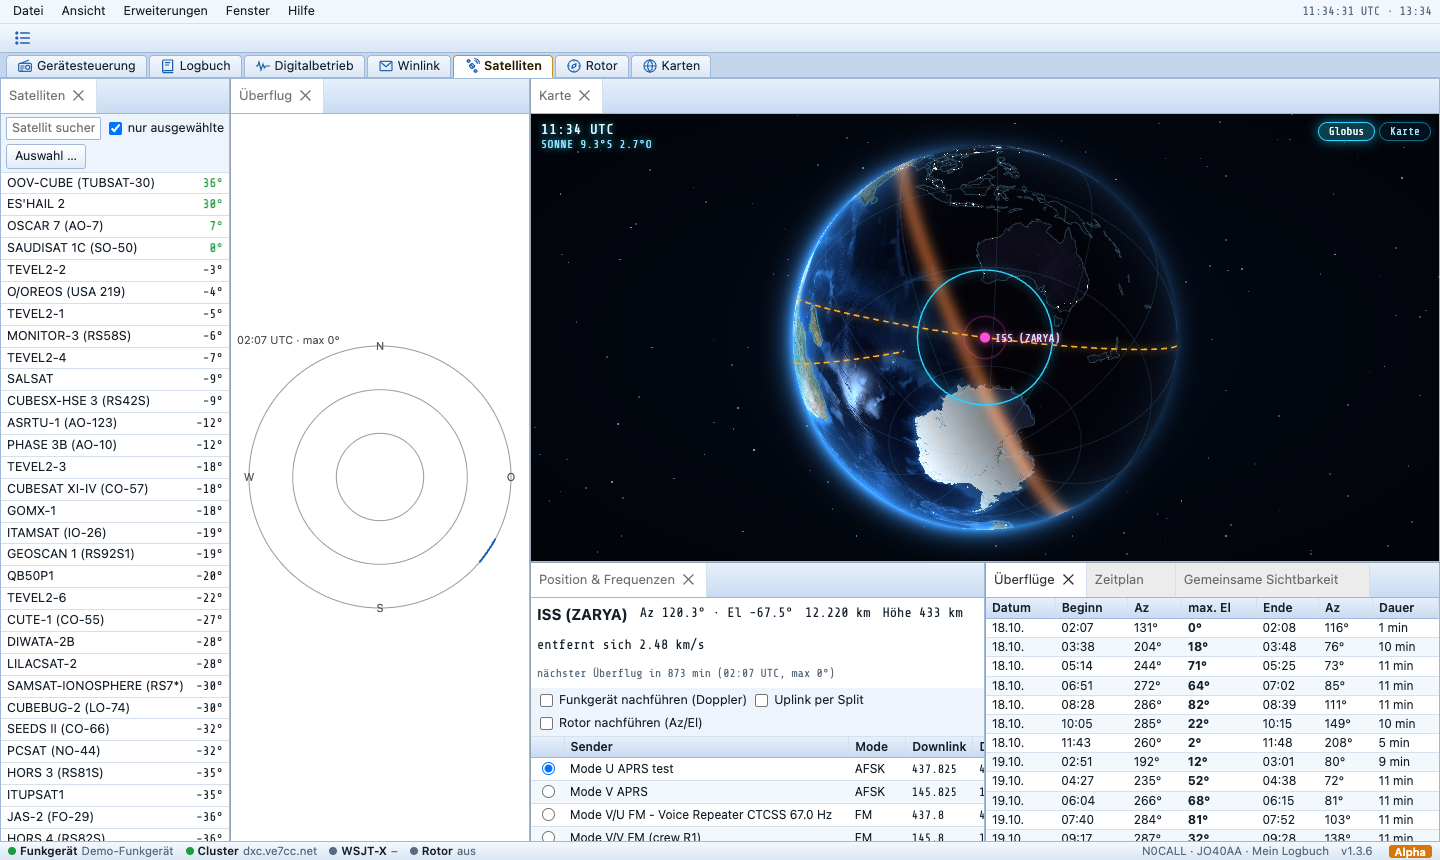
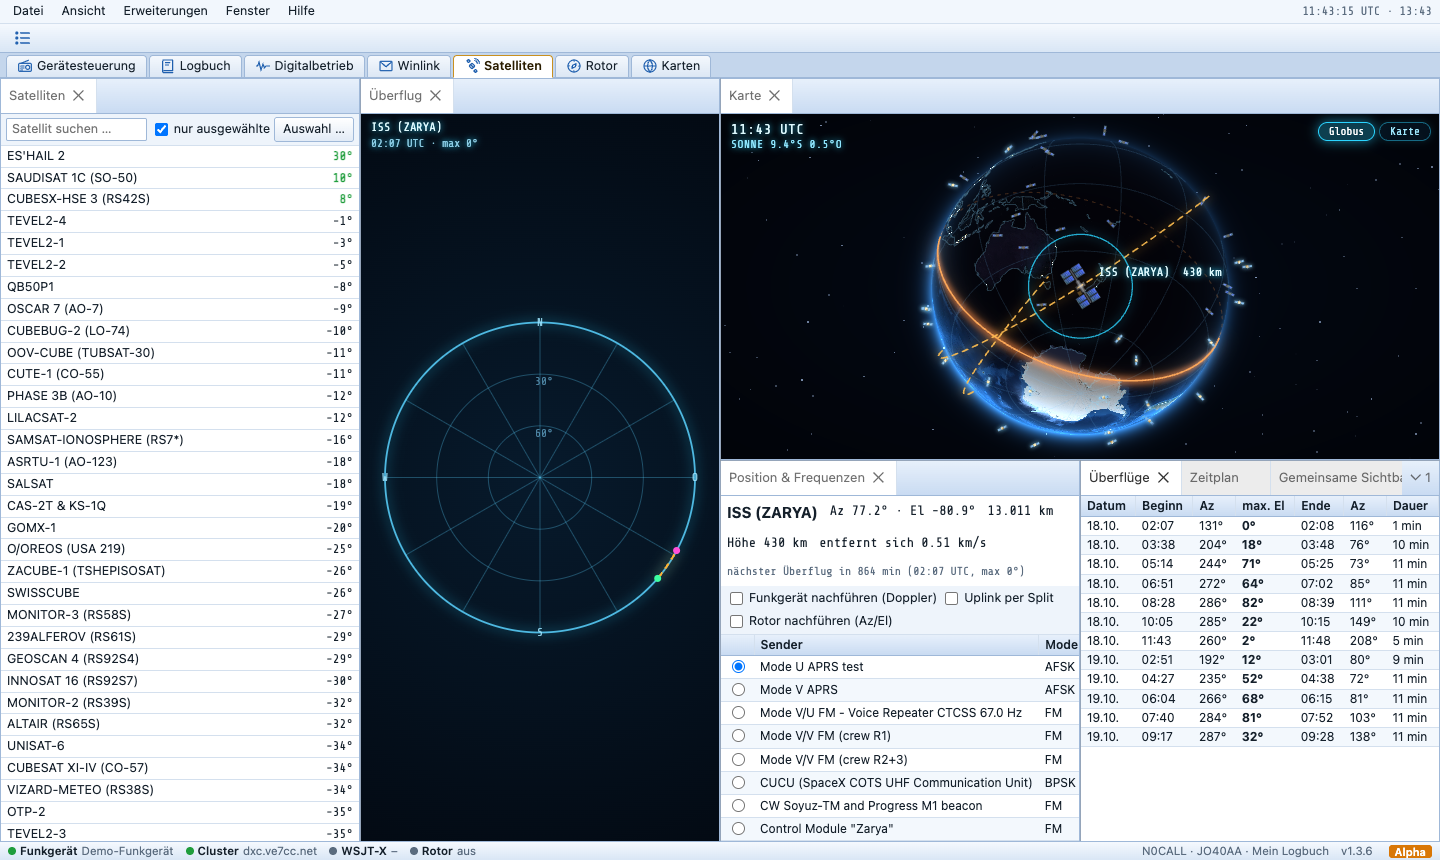
Satelliten in 3D: animierte Satelliten, ISS, Bahn in Flughöhe; Graulinie als Ring
- Satellitenkarte: alle ausgewählten Satelliten als kleine 3D-Figuren in
  Echtzeit (ISS mit eigener Form, im Erdschatten dunkler), gewählter mit
  Bahn und Sichtbereich in echter Flughöhe; Erde dreht weich mit, Ziehen
  pausiert, Doppelklick folgt wieder; Klick wählt einen Satelliten
- Überflug-Diagramm im Holo-Look mit animierter Bahn und Satellitenfigur
- Graulinie als durchgehender leuchtender Ring (Rückseite durchscheinend)
- Anleitung DE/EN, Bilder

Claude-Session: https://claude.ai/code/session_017n9uLddWcii3wRCcwvWadf

diff --git a/static/js/apps2.js b/static/js/apps2.js
@@ -317,30 +317,70 @@ function createSatPasses(root) {
   const draw = () => { const now = Date.now(); $("tbody", root).innerHTML = SAT.passes.map(p => `<tr class="${p.aos <= now && p.los >= now ? "now" : ""}"><td>${new Date(p.aos).toISOString().slice(8, 10)}.${new Date(p.aos).toISOString().slice(5, 7)}.</td><td>${hhmm(p.aos)}</td><td>${Math.round(p.aosAz)}°</td><td><b>${Math.round(p.maxEl)}°</b></td><td>${hhmm(p.los)}</td><td>${Math.round(p.losAz)}°</td><td>${Math.round((p.los - p.aos) / 60000)} min</td></tr>`).join("") || '<tr><td colspan="7" class="hint">kein Überflug in 48 h</td></tr>'; };
   return WW.on("sat-sel", draw);
 }
-function createSatPolar(root) {
-  root.innerHTML = `<canvas class="pol"></canvas>`; const cv = $(".pol", root);
-  const draw = () => { const W = Math.min(root.clientWidth, root.clientHeight) - 4; if (W < 50) return; cv.width = cv.height = W; const ctx = cv.getContext("2d"), c = W / 2, R = c - 16;
-    const xy = (az, el) => { const r = R * (90 - Math.max(0, el)) / 90, a = az * Math.PI / 180; return [c + r * Math.sin(a), c - r * Math.cos(a)]; };
-    ctx.clearRect(0, 0, W, W); ctx.strokeStyle = "#999"; ctx.fillStyle = "#555"; ctx.font = "11px system-ui"; ctx.textAlign = "center"; ctx.textBaseline = "middle";
-    [0, 30, 60].forEach(el => { ctx.beginPath(); ctx.arc(c, c, R * (90 - el) / 90, 0, 7); ctx.stroke(); }); [["N", 0], ["O", 90], ["S", 180], ["W", 270]].forEach(([l, a]) => { const p = xy(a, -8); ctx.fillText(l, p[0], p[1]); });
-    const p = SAT.passes[0]; if (p && SAT.sel) { ctx.beginPath(); let f = true; for (let t = p.aos; t <= p.los; t += 10e3) { const l = satLook(SAT.sel.rec, new Date(t)), q = xy(l.az, l.el); f ? ctx.moveTo(q[0], q[1]) : ctx.lineTo(q[0], q[1]); f = false; } ctx.strokeStyle = "#1f5fae"; ctx.lineWidth = 2; ctx.stroke(); ctx.lineWidth = 1;
-      ctx.textAlign = "left"; ctx.fillText(`${p.aos <= Date.now() ? "jetzt" : hhmm(p.aos) + " UTC"} · max ${Math.round(p.maxEl)}°`, 4, 10); }
-    const l = SAT.now; if (l && l.el > -5) { const q = xy(l.az, l.el); ctx.beginPath(); ctx.arc(q[0], q[1], 6, 0, 7); ctx.fillStyle = l.el > 0 ? "#d62828" : "#888"; ctx.fill(); } };
-  const ro = new ResizeObserver(draw); ro.observe(root); const offs = [WW.on("sat-tick", draw), WW.on("sat-sel", draw)]; return () => { ro.disconnect(); offs.forEach(f => f()); };
+function createSatPolar(root) {   // Ueberflug im Holo-Look: Horizont-Ringe, Bahn des naechsten Ueberflugs leuchtend, Satellit als 3D-Figur
+  root.innerHTML = `<canvas class="pol"></canvas>`; const cv = $(".pol", root); let raf = 0, alive = true;
+  const draw = t => {
+    const Wc = root.clientWidth, Hc = root.clientHeight, W = Math.min(Wc, Hc) - 4; if (W < 50) return; const dpr = devicePixelRatio || 1;
+    cv.width = Wc * dpr; cv.height = Hc * dpr; cv.style.width = Wc + "px"; cv.style.height = Hc + "px"; const ctx = cv.getContext("2d"); ctx.setTransform(dpr, 0, 0, dpr, 0, 0);
+    const cx = Wc / 2, cy = Hc / 2, R = W / 2 - 22, xy = (az, el) => { const r = R * (90 - Math.max(0, el)) / 90, a = az * Math.PI / 180; return [cx + r * Math.sin(a), cy - r * Math.cos(a)]; };
+    const bg = ctx.createRadialGradient(cx, cy, 0, cx, cy, Math.max(Wc, Hc) * .7); bg.addColorStop(0, "#071a2c"); bg.addColorStop(1, "#02060d"); ctx.fillStyle = bg; ctx.fillRect(0, 0, Wc, Hc);
+    ctx.strokeStyle = "rgba(90,210,255,.3)"; ctx.lineWidth = 1; [30, 60].forEach(el => { ctx.beginPath(); ctx.arc(cx, cy, R * (90 - el) / 90, 0, 7); ctx.stroke(); });
+    for (let a = 0; a < 360; a += 30) { const [x, y] = xy(a, 0); ctx.beginPath(); ctx.moveTo(cx, cy); ctx.lineTo(x, y); ctx.stroke(); }
+    ctx.shadowColor = "#2bd4ff"; ctx.shadowBlur = 12; ctx.strokeStyle = "rgba(90,210,255,.85)"; ctx.lineWidth = 1.8; ctx.beginPath(); ctx.arc(cx, cy, R, 0, 7); ctx.stroke(); ctx.shadowBlur = 0;
+    ctx.fillStyle = "rgba(160,230,255,.85)"; ctx.font = "11px 'Share Tech Mono', monospace"; ctx.textAlign = "center"; ctx.textBaseline = "middle";
+    [["N", 0], [I18N.lang === "de" ? "O" : "E", 90], ["S", 180], ["W", 270]].forEach(([l, a]) => { const p = xy(a, -9); ctx.fillText(l, p[0], p[1]); });
+    ctx.fillStyle = "rgba(120,200,240,.6)"; ctx.fillText("30°", cx + 4, cy - R * 60 / 90 + 8); ctx.fillText("60°", cx + 4, cy - R * 30 / 90 + 8);
+    const p = SAT.passes[0];
+    if (p && SAT.sel) { const pts = []; for (let tt = p.aos; tt <= p.los; tt += 10e3) { const l = satLook(SAT.sel.rec, new Date(tt)); if (l) pts.push(xy(l.az, l.el)); }
+      ctx.save(); ctx.strokeStyle = "#ffb02e"; ctx.shadowColor = "#ffb02e"; ctx.shadowBlur = 12; ctx.lineWidth = 2; ctx.setLineDash([6, 5]); ctx.lineDashOffset = -t / 60; ctx.beginPath(); pts.forEach((q, i) => i ? ctx.lineTo(q[0], q[1]) : ctx.moveTo(q[0], q[1])); ctx.stroke(); ctx.restore();
+      if (pts.length) { ctx.fillStyle = "#3dffa2"; ctx.beginPath(); ctx.arc(pts[0][0], pts[0][1], 3.5, 0, 7); ctx.fill(); ctx.fillStyle = "#ff4fd8"; ctx.beginPath(); ctx.arc(pts[pts.length - 1][0], pts[pts.length - 1][1], 3.5, 0, 7); ctx.fill(); }
+      ctx.textAlign = "left"; ctx.fillStyle = "#dffaff"; ctx.shadowColor = "#2bd4ff"; ctx.shadowBlur = 6; ctx.font = "12px 'Share Tech Mono', monospace";
+      ctx.fillText(`${SAT.sel.name}`, 10, 14); ctx.fillStyle = "rgba(160,230,255,.85)"; ctx.font = "11px 'Share Tech Mono', monospace"; ctx.fillText(`${p.aos <= Date.now() ? I18N.t("jetzt") : hhmm(p.aos) + " UTC"} · max ${Math.round(p.maxEl)}°`, 10, 30); ctx.shadowBlur = 0; }
+    const l = SAT.sel && satLook(SAT.sel.rec, new Date());
+    if (l && l.el > -5) { const q = xy(l.az, l.el), n = satLook(SAT.sel.rec, new Date(Date.now() + 20e3)), q2 = n ? xy(n.az, n.el) : q;
+      drawSatSprite(ctx, q[0], q[1], Math.atan2(q2[1] - q[1], q2[0] - q[0]) + Math.PI / 2, 1.1, SAT.sel.norad === 25544, l.el > 0, t);
+      ctx.fillStyle = "#dffaff"; ctx.font = "11px 'Share Tech Mono', monospace"; ctx.textAlign = "left"; ctx.fillText(`Az ${Math.round(l.az)}° · El ${Math.round(l.el)}°`, q[0] + 16, q[1] + 16); } };
+  const loop = t => { if (!alive) return; if (root.isConnected && root.offsetParent && !document.hidden) draw(t); raf = setTimeout(() => requestAnimationFrame(loop), 60); };
+  requestAnimationFrame(loop); return () => { alive = false; clearTimeout(raf); };
 }
-function createSatMap(root) {   // Satellit ueber der Erde: Bodenspur, Sichtbereich, eigener Standort
-  const E = wwEarth(root, { mode: store.get("sm.mode", "globe"), modes: [["globe", "Globus"], ["flat", "Karte"]], grid: "latlon", onMode: m => store.set("sm.mode", m) });
-  let last = 0, follow = true;
-  const draw = () => { if (!SAT.sel || !SAT.now || Date.now() - last < 3000) return; last = Date.now(); const x = SAT.sel, now = new Date(), l = SAT.now;
-    const track = []; for (let t = -45; t <= 90; t++) { const p = satLook(x.rec, new Date(+now + t * 60e3)); if (p) track.push([p.lat, p.lon]); }
-    const fr = Math.acos(6371 / (6371 + l.alt)) * 6371, foot = []; for (let a = 0; a <= 360; a += 4) foot.push(destPoint([l.lat, l.lon], a, fr));
-    E.lines = [{ pts: track, color: "#ffb02e", width: 1.6, dash: [5, 5], glow: 8 }, { pts: foot, color: l.el > 0 ? "#3dffa2" : "#2bd4ff", width: 1.4, glow: 10 }];
-    E.points = [...(WW.home ? [{ lat: WW.home[0], lon: WW.home[1], color: "#2bd4ff", r: 3.5, pulse: true }] : []), { lat: l.lat, lon: l.lon, color: "#ff4fd8", r: 5, pulse: true, label: x.name }];
-    E.arcs = WW.home && l.el > 0 ? [{ from: WW.home, to: [l.lat, l.lon], color: "#3dffa2", width: 1.4 }] : [];
-    if (follow && E.o.mode === "globe") E.set({ center: [Math.max(-60, Math.min(60, l.lat)), l.lon] }); else E.redraw(); };
+function createSatMap(root) {   // Satelliten in Echtzeit ueber der 3D-Erde: Bahn in Flughoehe, Sichtbereich, kleine 3D-Satelliten (ISS eigene Form)
+  const E = wwEarth(root, { mode: store.get("sm.mode", "globe"), modes: [["globe", "Globus"], ["flat", "Karte"]], grid: "latlon", animate: true, onMode: m => store.set("sm.mode", m),
+    draw: (ctx, E, t) => drawSats(ctx, E, t), onClick: (ll, hit) => { if (hit?.norad) satSelect(hit.norad); } });
+  let follow = true, track = null, trackT = 0, others = [], othersT = 0;
+  const sun = () => { const s = sunPos(); return ecef(s.lat, s.lon); };
+  const lookAt = (x, d) => satLook(x.rec, d);
+  const head = (x, now, l) => { const n = lookAt(x, new Date(+now + 20e3)); if (!n) return 0; const a = E.proj(l.lat, l.lon, l.alt), b = E.proj(n.lat, n.lon, n.alt); return Math.atan2(b.y - a.y, b.x - a.x) + Math.PI / 2; };
+  const inShadow = l => { const S = sun(), P = ecef(l.lat, l.lon), k = 1 + l.alt / 6371, d = (P[0] * S[0] + P[1] * S[1] + P[2] * S[2]) * k; if (d > 0) return false;
+    const px = P[0] * k - d * S[0], py = P[1] * k - d * S[1], pz = P[2] * k - d * S[2]; return Math.hypot(px, py, pz) < 1; };
+  function drawSats(ctx, E, t) {
+    if (!SAT.list.length) return; const now = new Date();
+    if (Date.now() - othersT > 1000) { othersT = Date.now(); others = SAT.list.filter(x => SAT.chosen?.has(x.norad) && x !== SAT.sel).slice(0, 60);
+      E.points = [...(WW.home ? [{ lat: WW.home[0], lon: WW.home[1], color: "#2bd4ff", r: 3.5, pulse: true, tip: WW.settings.callsign || "" }] : [])]; }
+    const hit = [];
+    for (const x of others) { const l = lookAt(x, now); if (!l) continue; const p = E.proj(l.lat, l.lon, l.alt); if (!p.vis) continue;
+      E.satSprite(ctx, p.x, p.y, head(x, now, l), x.norad === 25544 ? .55 : .42, x.norad === 25544, !inShadow(l), t + x.norad);
+      hit.push({ lat: l.lat, lon: l.lon, alt: l.alt, x }); }
+    const x = SAT.sel; if (x) { const l = lookAt(x, now);
+      if (l) { if (!track || Date.now() - trackT > 20000) { trackT = Date.now(); track = []; for (let m = -45; m <= 95; m++) { const q = lookAt(x, new Date(+now + m * 60e3)); if (q) track.push([q.lat, q.lon, E.o.mode === "globe" ? q.alt : 0]); } }
+        ctx.save(); ctx.strokeStyle = "rgba(255,190,80,.9)"; ctx.lineWidth = 1.6; ctx.setLineDash([6, 5]); ctx.lineDashOffset = -t / 60; ctx.shadowColor = "#ffb02e"; ctx.shadowBlur = 10; ctx.beginPath(); E.path(ctx, track); ctx.stroke(); ctx.restore();
+        const fr = Math.acos(6371 / (6371 + l.alt)) * 6371, foot = []; for (let a = 0; a <= 360; a += 4) foot.push(destPoint([l.lat, l.lon], a, fr));
+        ctx.save(); ctx.strokeStyle = l.el > 0 ? "#3dffa2" : "rgba(43,212,255,.8)"; ctx.lineWidth = 1.3; ctx.shadowColor = ctx.strokeStyle; ctx.shadowBlur = 10; ctx.beginPath(); E.path(ctx, foot); ctx.stroke(); ctx.restore();
+        const p = E.proj(l.lat, l.lon, l.alt), g = E.proj(l.lat, l.lon, 0);
+        if (p.vis) { if (E.o.mode === "globe" && g.vis) { ctx.save(); ctx.strokeStyle = "rgba(255,79,216,.5)"; ctx.setLineDash([2, 3]); ctx.beginPath(); ctx.moveTo(g.x, g.y); ctx.lineTo(p.x, p.y); ctx.stroke(); ctx.restore(); }
+          if (WW.home && l.el > 0) { const h = E.proj(WW.home[0], WW.home[1], 0); if (h.vis) { ctx.save(); ctx.strokeStyle = "#3dffa2"; ctx.shadowColor = "#3dffa2"; ctx.shadowBlur = 12; ctx.lineWidth = 1.4; ctx.beginPath(); ctx.moveTo(h.x, h.y); ctx.lineTo(p.x, p.y); ctx.stroke(); ctx.restore(); } }
+          E.satSprite(ctx, p.x, p.y, head(x, now, l), x.norad === 25544 ? 1.25 : 1.15, x.norad === 25544, !inShadow(l), t);
+          ctx.save(); ctx.fillStyle = "#dffaff"; ctx.shadowColor = "#2bd4ff"; ctx.shadowBlur = 6; ctx.font = "12px 'Share Tech Mono', monospace"; ctx.fillText(`${x.name}  ${Math.round(l.alt)} km`, p.x + 18, p.y - 10); ctx.restore(); }
+        hit.push({ lat: l.lat, lon: l.lon, alt: l.alt, x });
+        if (follow && E.o.mode === "globe") {                   // Erde dreht gleichmaessig mit dem Satelliten mit (weich nachgefuehrt)
+          const c = E.o.center, tl = Math.max(-55, Math.min(55, l.lat)); let dl = l.lon - c[1]; dl = ((dl + 540) % 360) - 180;
+          const k = drawSats.c ? .06 : 1; drawSats.c = true; E.o.center = [c[0] + (tl - c[0]) * k, ((c[1] + dl * k + 540) % 360) - 180]; } } }
+    E.hits = hit; }
+  // Treffer fuer Hinweis/Klick: Satelliten in Flughoehe
+  const pick0 = E.pick; E.pick = (px, py) => { for (const h of E.hits || []) { const q = E.proj(h.lat, h.lon, h.alt); if (q.vis && Math.hypot(q.x - px, q.y - py) < 12) return { norad: h.x.norad, tip: `${h.x.name} · ${Math.round(h.alt)} km` }; } return pick0(px, py); };
   root.addEventListener("pointerdown", () => { follow = false; });
-  root.addEventListener("dblclick", () => { follow = true; last = 0; draw(); });
-  const offs = [WW.on("sat-tick", draw), WW.on("sat-sel", () => { last = 0; follow = true; draw(); })]; return () => { offs.forEach(f => f()); E.destroy(); };
+  root.addEventListener("dblclick", () => { follow = true; drawSats.c = null; });
+  const offs = [WW.on("sat-sel", () => { track = null; follow = true; drawSats.c = null; }), WW.on("sat-chosen", () => { othersT = 0; })];
+  return () => { offs.forEach(f => f()); E.destroy(); };
 }
 APPS.sat = {
   title: "Satelliten", icon: "i-sat",

diff --git a/static/js/earth3d.js b/static/js/earth3d.js
@@ -88,6 +88,20 @@ function gcPoints(a, b, n = 64) {                              // Grosskreis zwi
     const x = s1 * A[0] + s2 * Bv[0], y = s1 * A[1] + s2 * Bv[1], z = s1 * A[2] + s2 * Bv[2]; out.push([Math.asin(z) / RAD, Math.atan2(y, x) / RAD]); }
   return out;
 }
+// Kleiner 3D-Satellit: Koerper mit Goldfolie, Solarfluegel quer zur Flugrichtung, Glanz wandert; ISS mit Gitterstruktur und acht Fluegeln
+function drawSatSprite(ctx, x, y, dir, size = 1, iss = false, lit = true, t = 0) {
+  ctx.save(); ctx.translate(x, y); ctx.rotate(dir); const s = size, sh = lit ? 1 : .35, gl = (Math.sin(t / 600) + 1) / 2;
+  ctx.shadowColor = lit ? "rgba(140,220,255,.9)" : "transparent"; ctx.shadowBlur = 10 * s;
+  const panel = (px, py, w, h) => { const g = ctx.createLinearGradient(px, py, px + w, py + h); g.addColorStop(0, `rgba(30,70,${Math.round(160 * sh)},1)`); g.addColorStop(gl, `rgba(${Math.round(120 * sh)},${Math.round(200 * sh)},255,1)`); g.addColorStop(1, `rgba(20,50,${Math.round(130 * sh)},1)`);
+    ctx.fillStyle = g; ctx.fillRect(px, py, w, h); ctx.strokeStyle = "rgba(200,235,255,.5)"; ctx.lineWidth = .5; ctx.strokeRect(px, py, w, h); ctx.beginPath(); for (let k = 1; k < 4; k++) { ctx.moveTo(px + w * k / 4, py); ctx.lineTo(px + w * k / 4, py + h); } ctx.stroke(); };
+  if (iss) { ctx.strokeStyle = `rgba(220,225,235,${sh})`; ctx.lineWidth = 1.4 * s; ctx.beginPath(); ctx.moveTo(-15 * s, 0); ctx.lineTo(15 * s, 0); ctx.stroke();
+    for (const sx of [-14, -9, 9, 14]) for (const sy of [-1, 1]) panel(sx * s - 2 * s, sy > 0 ? 1.5 * s : -8.5 * s, 4 * s, 7 * s);
+    const b = ctx.createLinearGradient(0, -3 * s, 0, 3 * s); b.addColorStop(0, `rgba(255,255,255,${sh})`); b.addColorStop(1, `rgba(150,160,175,${sh})`); ctx.fillStyle = b; ctx.fillRect(-5 * s, -1.6 * s, 10 * s, 3.2 * s); ctx.fillRect(-1.6 * s, -4 * s, 3.2 * s, 8 * s);
+    ctx.fillStyle = `rgba(230,180,90,${sh})`; ctx.fillRect(3 * s, 2 * s, 3 * s, 3 * s); }
+  else { panel(-11 * s, -2 * s, 7 * s, 4 * s); panel(4 * s, -2 * s, 7 * s, 4 * s); ctx.strokeStyle = `rgba(200,200,210,${sh})`; ctx.lineWidth = .8 * s; ctx.beginPath(); ctx.moveTo(-4 * s, 0); ctx.lineTo(4 * s, 0); ctx.stroke();
+    const g = ctx.createLinearGradient(-3 * s, -3 * s, 3 * s, 3 * s); g.addColorStop(0, `rgba(255,225,140,${sh})`); g.addColorStop(gl * .8 + .1, `rgba(255,250,220,${sh})`); g.addColorStop(1, `rgba(170,120,40,${sh})`);
+    ctx.fillStyle = g; ctx.fillRect(-3 * s, -3 * s, 6 * s, 6 * s); ctx.fillStyle = `rgba(240,240,250,${sh})`; ctx.beginPath(); ctx.arc(0, -3.6 * s, 1.1 * s, 0, 7); ctx.fill(); }
+  ctx.restore(); }
 function wwEarth(root, opts = {}) {
   const o = { mode: "globe", center: WW.home ? [WW.home[0], WW.home[1]] : [30, 10], zoom: 1, terminator: true, grid: "latlon", borders: true, hud: true, ...opts };
   if (o.mode === "flat") o.center = [0, o.center[1]];          // Weltkarte: Mitte auf dem Aequator
@@ -115,8 +129,9 @@ function wwEarth(root, opts = {}) {
   const dot = (a, b) => a[0] * b[0] + a[1] * b[1] + a[2] * b[2];
   const toPx = (px, py) => [(px / (W / H) + 1) / 2 * W, (1 - (py + 1) / 2) * H];          // Shader-Koordinate -> CSS-Pixel
   const fromPx = (x, y) => [((x / W) * 2 - 1) * (W / H), 1 - (y / H) * 2];
-  E.proj = (lat, lon) => {
-    if (o.mode === "globe") { const B = basis(), P = ecef(lat, lon), R = .86 * o.zoom, z = dot(P, B.f); const [x, y] = toPx(dot(P, B.e) * R, dot(P, B.n) * R); return { x, y, vis: z > 0, z }; }
+  E.proj = (lat, lon, alt = 0) => {
+    if (o.mode === "globe") { const B = basis(), P = ecef(lat, lon), R = .86 * o.zoom * (1 + (alt || 0) / 6371), z = dot(P, B.f), ex = dot(P, B.e), ny = dot(P, B.n);
+      const [x, y] = toPx(ex * R, ny * R), out = (ex * ex + ny * ny) * (1 + (alt || 0) / 6371) ** 2 > 1; return { x, y, vis: z > 0 || (alt > 0 && out), z, back: z <= 0 }; }
     if (o.mode === "flat") { const k = Math.max(Math.PI / (W / H), Math.PI / 2) / o.zoom; let dl = lon * RAD - (o.center[1] * RAD + pan[0]); dl = ((dl + Math.PI) % (2 * Math.PI) + 2 * Math.PI) % (2 * Math.PI) - Math.PI;
       const [x, y] = toPx(dl / k, (lat * RAD - (o.center[0] * RAD + pan[1])) / k); return { x, y, vis: true, wrap: dl }; }
     const la0 = o.center[0] * RAD, lo0 = o.center[1] * RAD, la = lat * RAD, lo = lon * RAD, R = .92 * o.zoom;   // Peilkarte
@@ -135,9 +150,10 @@ function wwEarth(root, opts = {}) {
     return [lat / RAD, (((lo0 + Math.atan2(Math.sin(az) * Math.sin(rho) * Math.cos(la0), Math.cos(rho) - Math.sin(la0) * Math.sin(lat))) / RAD + 540) % 360) - 180];
   };
   E.azCenter = () => toPx(0, 0); E.azRadius = () => .92 * o.zoom * H / 2;
+    E.satSprite = drawSatSprite;
   // Linie aus [lat, lon]-Punkten zeichnen; unterbricht auf der Rueckseite (Globus) bzw. am Kartenrand (Weltkarte)
   E.path = (ctx, pts) => { let pen = false, last = null;
-    for (const [la, lo] of pts) { const p = E.proj(la, lo); if (!p.vis || (last && Math.hypot(p.x - last.x, p.y - last.y) > W * .45)) { pen = false; last = p.vis ? p : null; if (!p.vis) continue; }
+    for (const [la, lo, al] of pts) { const p = E.proj(la, lo, al || 0); if (!p.vis || (last && Math.hypot(p.x - last.x, p.y - last.y) > W * .45)) { pen = false; last = p.vis ? p : null; if (!p.vis) continue; }
       if (!pen) { ctx.moveTo(p.x, p.y); pen = true; } else ctx.lineTo(p.x, p.y); last = p; } };
   // ---------- Leuchtschicht ----------
   const glow = (ctx, color, blur) => { ctx.shadowColor = color; ctx.shadowBlur = blur; };
@@ -157,6 +173,16 @@ function wwEarth(root, opts = {}) {
       for (let a = 0; a < 360; a += 30) { const s = Math.sin(a * RAD), c = Math.cos(a * RAD); ctx.beginPath(); ctx.moveTo(cx + s * R * .04, cy - c * R * .04); ctx.lineTo(cx + s * R, cy - c * R); ctx.stroke();
         ctx.fillText(a % 90 === 0 ? { 0: "N", 90: I18N.lang === "de" ? "O" : "E", 180: "S", 270: "W" }[a] : a, cx + s * (R + 14), cy - c * (R + 14)); }
       ctx.lineWidth = 1.5; ctx.strokeStyle = "rgba(90,200,255,.7)"; glow(ctx, "#2bb8ff", 10); ctx.beginPath(); ctx.arc(cx, cy, R, 0, 7); ctx.stroke(); ctx.restore(); }
+    if (o.terminator) { const sp = sunPos(), S = ecef(sp.lat, sp.lon), u0 = Math.abs(S[2]) < .9 ? [0, 0, 1] : [1, 0, 0];
+      const cr = (a, b) => [a[1] * b[2] - a[2] * b[1], a[2] * b[0] - a[0] * b[2], a[0] * b[1] - a[1] * b[0]], nz = v => { const l = Math.hypot(...v); return v.map(x => x / l); };
+      const U = nz(cr(S, u0)), V = cr(S, U), ring = [];
+      for (let i = 0; i <= 240; i++) { const a = i / 240 * 2 * Math.PI, P = [0, 1, 2].map(k => Math.cos(a) * U[k] + Math.sin(a) * V[k]); ring.push([Math.asin(P[2]) / RAD, Math.atan2(P[1], P[0]) / RAD]); }
+      ctx.save(); ctx.lineCap = "round";
+      if (o.mode === "globe") { const seg = back => { ctx.beginPath(); let pen = false; for (const [la, lo] of ring) { const p = E.proj(la, lo); if (p.back !== back) { pen = false; continue; } pen ? ctx.lineTo(p.x, p.y) : ctx.moveTo(p.x, p.y); pen = true; } ctx.stroke(); };
+        ctx.strokeStyle = "rgba(255,150,70,.22)"; ctx.lineWidth = 1.2; ctx.setLineDash([3, 5]); seg(true); ctx.setLineDash([]);
+        ctx.strokeStyle = "rgba(255,170,90,.95)"; ctx.lineWidth = 1.6; glow(ctx, "#ff9a3c", 16); seg(false); }
+      else { ctx.strokeStyle = "rgba(255,170,90,.85)"; ctx.lineWidth = 1.4; glow(ctx, "#ff9a3c", 14); ctx.beginPath(); E.path(ctx, ring); ctx.stroke(); }
+      ctx.restore(); }
     if (o.draw) { ctx.save(); o.draw(ctx, E, t); ctx.restore(); }
     for (const a of E.arcs) { const pts = gcPoints(a.from, a.to, 96), col = a.color || "#ff4fd8"; ctx.save(); ctx.strokeStyle = col; ctx.lineWidth = a.width || 2; glow(ctx, col, 12); ctx.globalAlpha = .9; if (a.dash) ctx.setLineDash(a.dash);
       ctx.beginPath(); E.path(ctx, pts); ctx.stroke(); ctx.setLineDash([]);
@@ -174,7 +200,7 @@ function wwEarth(root, opts = {}) {
   const hudText = () => { if (!o.hud) { hud.textContent = ""; return; } const s = sunPos(), n = new Date();
     hud.innerHTML = `<b>${n.toISOString().slice(11, 16)} UTC</b><span>${I18N.t("Sonne").toUpperCase()} ${Math.abs(s.lat).toFixed(1)}°${s.lat >= 0 ? "N" : "S"} ${Math.abs(s.lon).toFixed(1)}°${s.lon >= 0 ? (I18N.lang === "de" ? "O" : "E") : "W"}</span>${o.hudExtra ? `<span>${esc(o.hudExtra)}</span>` : ""}`; };
   // ---------- Zeichnen ----------
-  const animated = () => E.arcs.some(a => a.flow !== false) || E.points.some(p => p.pulse) || spin;
+  const animated = () => o.animate || E.arcs.some(a => a.flow !== false) || E.points.some(p => p.pulse) || spin;
   let lastT = 0;
   const frame = t => {
     raf = 0; if (!alive) return;

diff --git a/docs/Anleitung.md b/docs/Anleitung.md
@@ -487,7 +487,7 @@ Bei ARDOP und VARA tastet Wellenwerk das Funkgerät, sobald das Modem senden wil
 
 ![Satelliten](bilder/13-satelliten.png)
 
-Bahndaten und Sender werden automatisch geladen. Links die Liste mit aktueller Elevation (über dem Horizont grün), **Satelliten wählen** (Werkzeugleiste) legt bis zu 100 Satelliten fest. Daneben das Überflug-Polardiagramm, die Karte mit Bodenspur und Sichtbereich, Position und Frequenzen sowie die nächsten Überflüge.
+Bahndaten und Sender werden automatisch geladen. Links die Liste mit aktueller Elevation (über dem Horizont grün), **Satelliten wählen** (Werkzeugleiste) legt bis zu 100 Satelliten fest. Daneben das Überflug-Diagramm (Himmel von oben, leuchtende Bahn des nächsten Überflugs), die **3D-Erde** mit allen ausgewählten Satelliten als kleinen 3D-Figuren in Echtzeit (die ISS mit eigener Form; im Erdschatten dunkler), Bahn und Sichtbereich des gewählten Satelliten in echter Flughöhe, Position und Frequenzen sowie die nächsten Überflüge. Auf dem Globus dreht die Erde gleichmäßig mit dem gewählten Satelliten mit; mit gedrückter Maustaste drehst du selbst (das Mitdrehen pausiert), das Mausrad zoomt, ein **Doppelklick** schaltet das Mitdrehen wieder ein. Klick auf einen Satelliten wählt ihn aus.
 
 - **Sender** des Satelliten wählen – Downlink/Uplink werden angezeigt.
 - **Funkgerät nachführen (Doppler):** stellt die Empfangsfrequenz laufend nach; **Uplink per Split** stellt die Sendefrequenz mit ein.

diff --git a/docs/Manual.md b/docs/Manual.md
@@ -493,7 +493,7 @@ With ARDOP and VARA Wellenwerk keys the radio as soon as the modem wants to tran
 
 ![Satellites](bilder/13-satelliten.png)
 
-Orbital data and transmitters are loaded automatically. On the left the list with current elevation (green above the horizon), **Choose satellites** (toolbar) chooses up to 100 satellites. Next to it the pass polar diagram, the map with ground track and footprint, position and frequencies, and the next passes.
+Orbital data and transmitters are loaded automatically. On the left the list with current elevation (green above the horizon), **Choose satellites** (toolbar) chooses up to 100 satellites. Next to it the pass diagram (sky from above, glowing track of the next pass), the **3D Earth** with all chosen satellites as small 3D figures in real time (the ISS with its own shape; darker in the Earth's shadow), track and footprint of the selected satellite at its real altitude, position and frequencies, and the next passes. On the globe the Earth turns smoothly with the selected satellite; drag with the mouse button held to turn it yourself (following pauses), the mouse wheel zooms, a **double-click** resumes following. Clicking a satellite selects it.
 
 - Choose the satellite's **transmitter** – downlink/uplink are shown.
 - **Track radio (Doppler):** keeps adjusting the receive frequency; **Uplink via split** also sets the transmit frequency.
